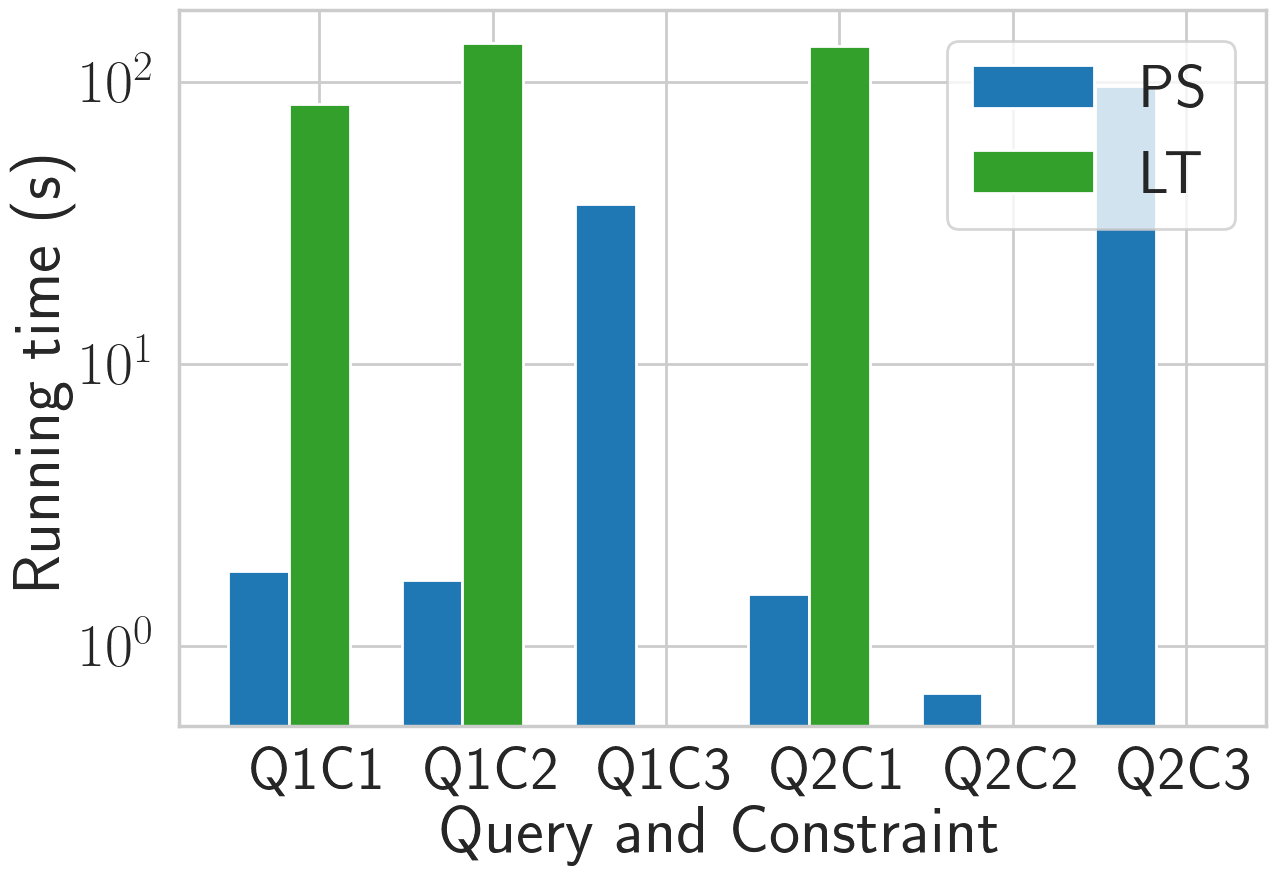
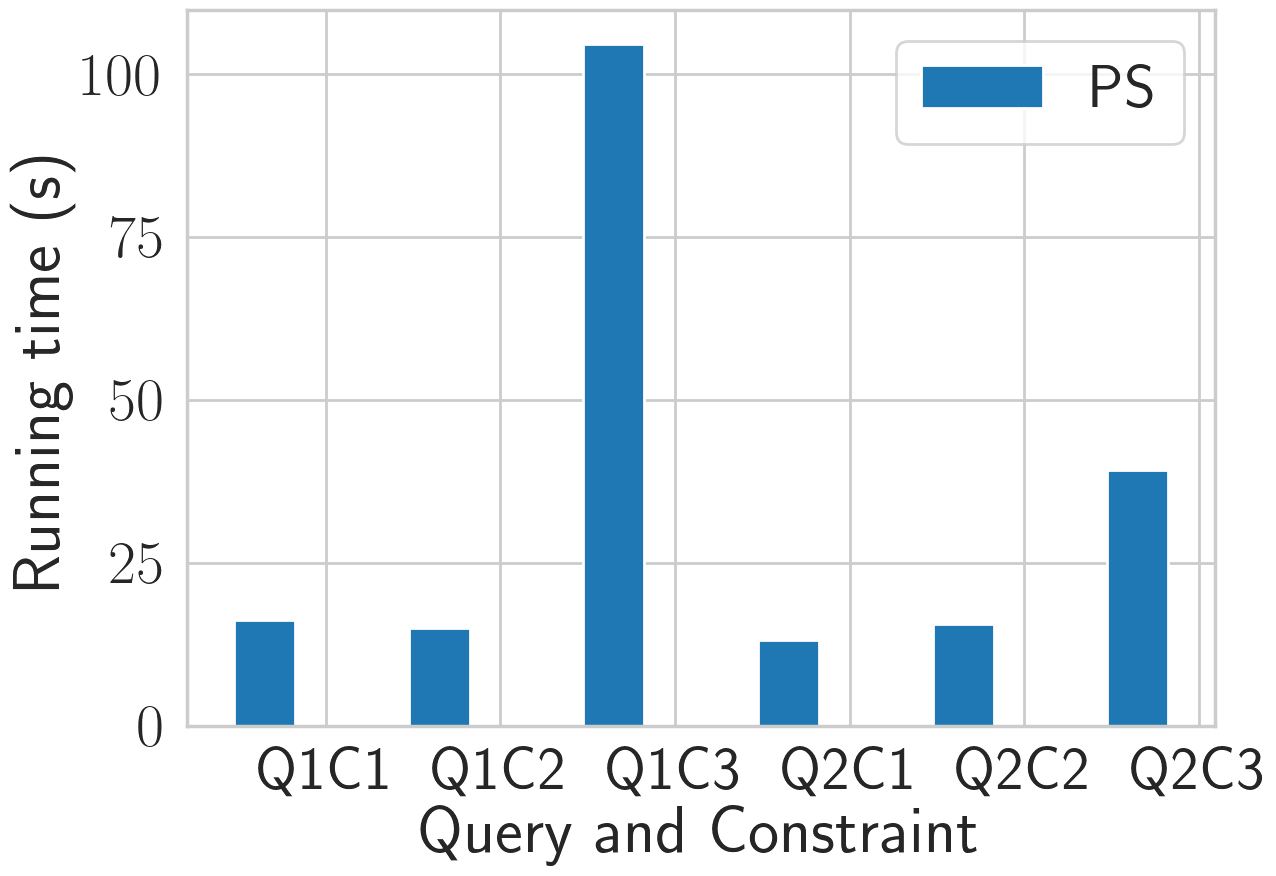
adult

Changed region(s): [[0.0611, 0.0, 1.0, 0.9863]]

diff --git a/Experiment/adult/exp_1_runningtime/fig.py b/Experiment/adult/exp_1_runningtime/fig.py
@@ -58,12 +58,12 @@ bar_width = 0.35
 fig, ax = plt.subplots(1, 1, figsize=f_size)
 
 plt.bar(index, execution_timeps, bar_width, color=color[0], label=label[0])
-plt.bar(index + bar_width, execution_timelt, bar_width,  color=color[1], label=label[1])
+# plt.bar(index + bar_width, execution_timelt, bar_width,  color=color[1], label=label[1])
 plt.xticks(index + bar_width, x_list)
 
 plt.xlabel('Query and Constraint')
 plt.ylabel('Running time (s)')
-plt.yscale('log')
+# plt.yscale('log')
 plt.legend(loc='best')
 
 plt.tight_layout()
